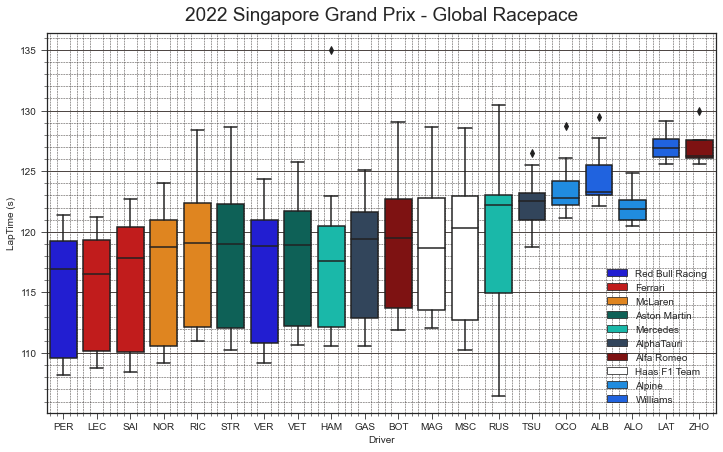
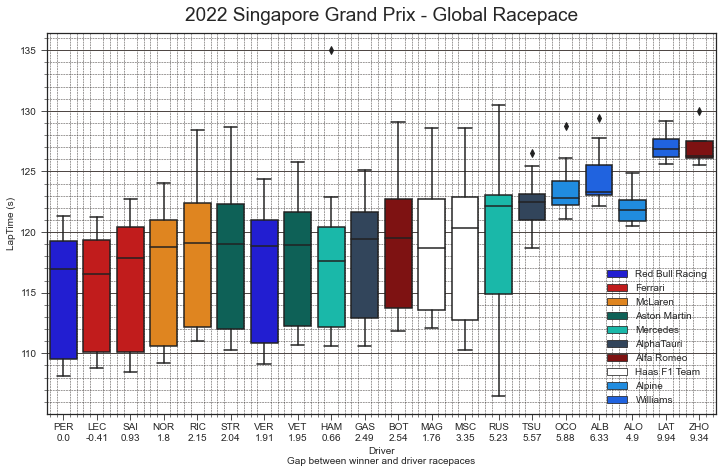
Global Racepace gap between winner and driver

Changed region(s): [[0.0, 0.0, 1.0, 0.9912]]

diff --git a/output/2022-10-02_Singapore_Grand_Prix/who_can_still_win_DC.html b/output/2022-10-02_Singapore_Grand_Prix/who_can_still_win_DC.html
@@ -1,0 +1,174 @@
+<table border="1" class="dataframe">
+  <thead>
+    <tr style="text-align: right;">
+      <th></th>
+      <th>driver</th>
+      <th>current points</th>
+      <th>theoretical max points</th>
+      <th>can win</th>
+    </tr>
+    <tr>
+      <th>position</th>
+      <th></th>
+      <th></th>
+      <th></th>
+      <th></th>
+    </tr>
+  </thead>
+  <tbody>
+    <tr>
+      <th>1</th>
+      <td>VER</td>
+      <td>341</td>
+      <td>479</td>
+      <td>True</td>
+    </tr>
+    <tr>
+      <th>2</th>
+      <td>LEC</td>
+      <td>237</td>
+      <td>375</td>
+      <td>True</td>
+    </tr>
+    <tr>
+      <th>3</th>
+      <td>PER</td>
+      <td>235</td>
+      <td>373</td>
+      <td>True</td>
+    </tr>
+    <tr>
+      <th>4</th>
+      <td>RUS</td>
+      <td>203</td>
+      <td>341</td>
+      <td>True</td>
+    </tr>
+    <tr>
+      <th>5</th>
+      <td>SAI</td>
+      <td>202</td>
+      <td>340</td>
+      <td>False</td>
+    </tr>
+    <tr>
+      <th>6</th>
+      <td>HAM</td>
+      <td>170</td>
+      <td>308</td>
+      <td>False</td>
+    </tr>
+    <tr>
+      <th>7</th>
+      <td>NOR</td>
+      <td>100</td>
+      <td>238</td>
+      <td>False</td>
+    </tr>
+    <tr>
+      <th>8</th>
+      <td>OCO</td>
+      <td>66</td>
+      <td>204</td>
+      <td>False</td>
+    </tr>
+    <tr>
+      <th>9</th>
+      <td>ALO</td>
+      <td>59</td>
+      <td>197</td>
+      <td>False</td>
+    </tr>
+    <tr>
+      <th>10</th>
+      <td>BOT</td>
+      <td>46</td>
+      <td>184</td>
+      <td>False</td>
+    </tr>
+    <tr>
+      <th>11</th>
+      <td>RIC</td>
+      <td>29</td>
+      <td>167</td>
+      <td>False</td>
+    </tr>
+    <tr>
+      <th>12</th>
+      <td>VET</td>
+      <td>24</td>
+      <td>162</td>
+      <td>False</td>
+    </tr>
+    <tr>
+      <th>13</th>
+      <td>GAS</td>
+      <td>23</td>
+      <td>161</td>
+      <td>False</td>
+    </tr>
+    <tr>
+      <th>14</th>
+      <td>MAG</td>
+      <td>22</td>
+      <td>160</td>
+      <td>False</td>
+    </tr>
+    <tr>
+      <th>15</th>
+      <td>STR</td>
+      <td>13</td>
+      <td>151</td>
+      <td>False</td>
+    </tr>
+    <tr>
+      <th>16</th>
+      <td>MSC</td>
+      <td>12</td>
+      <td>150</td>
+      <td>False</td>
+    </tr>
+    <tr>
+      <th>17</th>
+      <td>TSU</td>
+      <td>11</td>
+      <td>149</td>
+      <td>False</td>
+    </tr>
+    <tr>
+      <th>18</th>
+      <td>ZHO</td>
+      <td>6</td>
+      <td>144</td>
+      <td>False</td>
+    </tr>
+    <tr>
+      <th>19</th>
+      <td>ALB</td>
+      <td>4</td>
+      <td>142</td>
+      <td>False</td>
+    </tr>
+    <tr>
+      <th>20</th>
+      <td>DEV</td>
+      <td>2</td>
+      <td>140</td>
+      <td>False</td>
+    </tr>
+    <tr>
+      <th>21</th>
+      <td>LAT</td>
+      <td>0</td>
+      <td>138</td>
+      <td>False</td>
+    </tr>
+    <tr>
+      <th>22</th>
+      <td>HUL</td>
+      <td>0</td>
+      <td>138</td>
+      <td>False</td>
+    </tr>
+  </tbody>
+</table>
